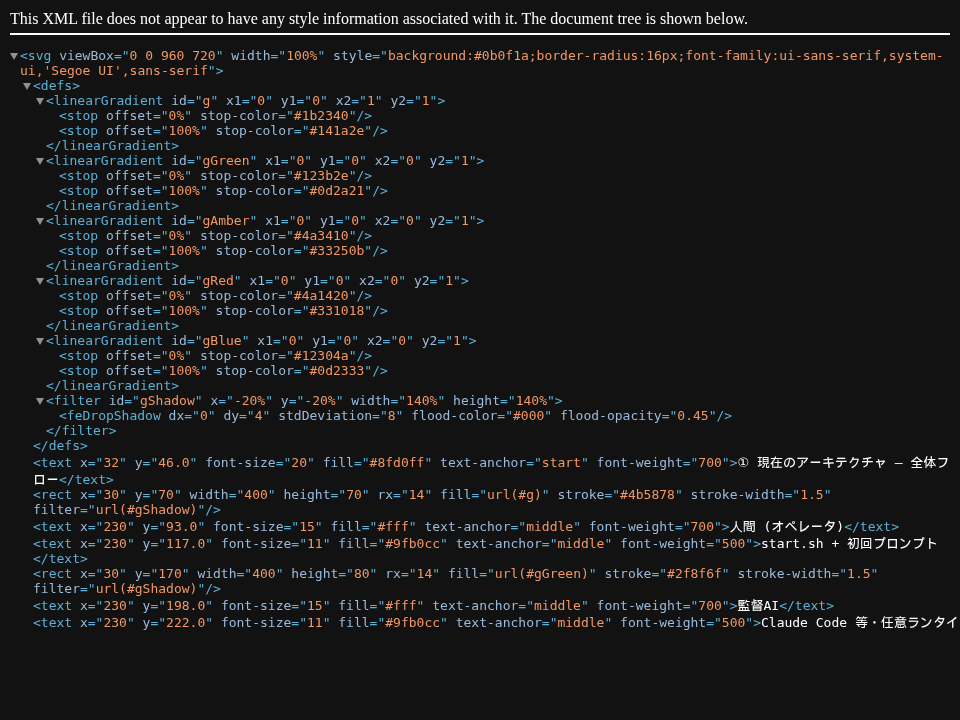
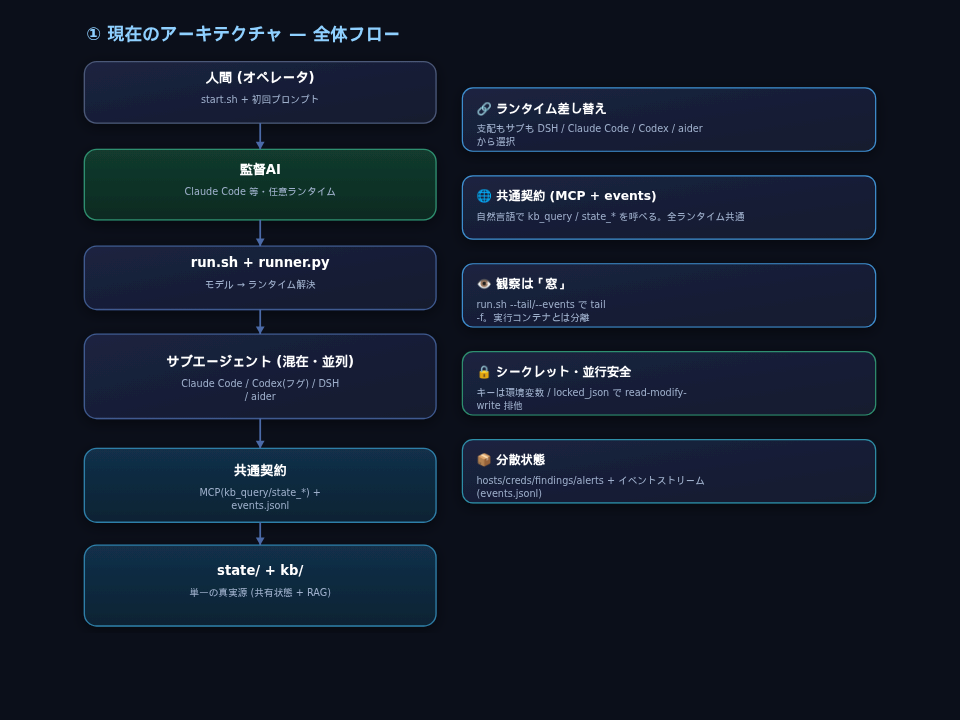
fix: add xmlns to SVG so PNG rasterization renders correctly
SVG に xmlns="http://www.w3.org/2000/svg" が無いと、単体ファイルとして開いた際に
ブラウザが XML と誤認して「does not appear to have any style information」とツリー表示し、
chromium での PNG 化でエラー画面がスクショされていた。xmlns を追加して正しく図を描画。

- docs/gen_design.py: render() の <svg> タグに xmlns を追加
- SVG/PNG を再生成 (背景 #0b0f1a の図として正しく描画されることをピクセルで検証)

diff --git a/docs/gen_design.py b/docs/gen_design.py
@@ -66,7 +66,8 @@ class SVG:
 
     def render(self):
         body = "\n".join(self.elems)
-        return (f'<svg viewBox="0 0 {self.w} {self.h}" width="100%" '
+        return (f'<svg xmlns="http://www.w3.org/2000/svg" '
+                f'viewBox="0 0 {self.w} {self.h}" width="100%" '
                 f'style="background:{self.bg};border-radius:16px;'
                 f'font-family:ui-sans-serif,system-ui,\'Segoe UI\',sans-serif">'
                 f'{body}</svg>')
